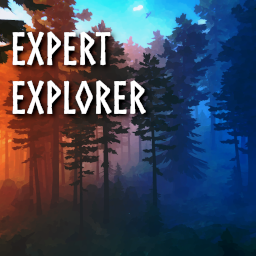
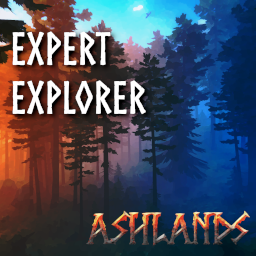
Mod rebuilt for Ashlands update (0.218.15)

Changed region(s): [[0.3438, 0.8125, 0.9688, 0.9688]]

diff --git a/ExpertExplorer/ExpertExplorer.cs b/ExpertExplorer/ExpertExplorer.cs
@@ -19,7 +19,7 @@ namespace ExpertExplorer
     {
         public const string PluginGUID = "com.milkwyzard.ExpertExplorer";
         public const string PluginName = "ExpertExplorer";
-        public const string PluginVersion = "1.1.0";
+        public const string PluginVersion = "1.1.1";
         public const string SkillId = $"{PluginGUID}.Exploration";
         
         // Use this class to add your own localization to the game

diff --git a/ExpertExplorer/README.md b/ExpertExplorer/README.md
@@ -30,6 +30,9 @@ You can report issues with the mod at the github link below.\
 Additionally, you can reach me in the [Valheim Modding Discord](https://discord.com/invite/GUEBuCuAMz) under the name Milk.
 
 ## Changelog
+**v1.1.1 - Ashlands Update**\
+Mod rebuilt to support the Ashlands update.
+
 **v1.1.0 - Multiplayer Support**\
 Mod now works in multiplayer. Added RPC calls to communicate location data between the server and client.
 

diff --git a/ExpertExplorer/CHANGELOG.md b/ExpertExplorer/CHANGELOG.md
@@ -1,3 +1,7 @@
+### Version 1.1.1
+------
+- Rebuild for Ashlands update.
+
 ### Version 1.1.0
 ------
 - Mod now works in multiplayer.
